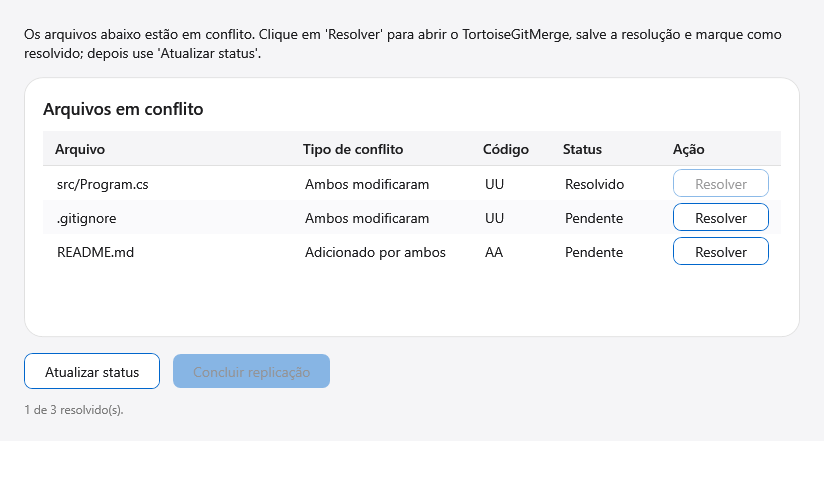
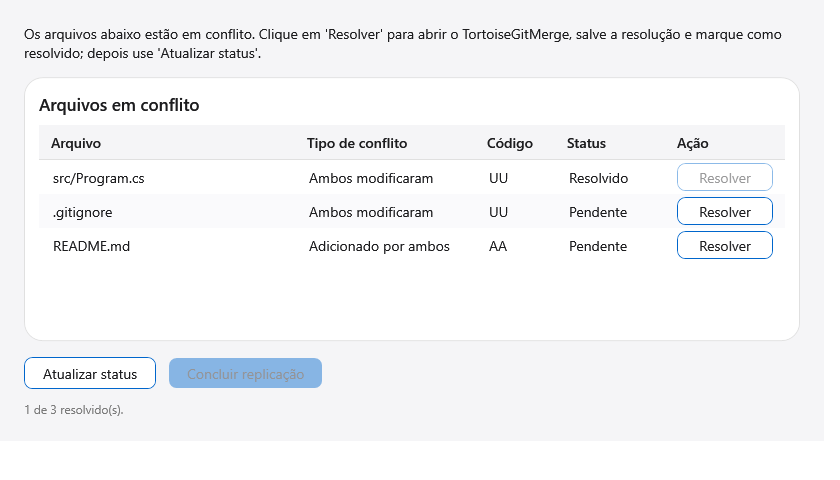
ui: reduzir altura do formulário principal
- Local e Remote concatenados em uma única linha (MultiBinding)
- Remove a opção de estratégia da UI (replicação usa cherry-pick, padrão do VM)
- Margens/paddings enxutos (Grid 16, cards 14, alturas de controle 32)
- Altura padrão da janela 860 -> 700
- Manual/README e screenshots atualizados

diff --git a/src/GitKit.App/Views/MainWindow.xaml b/src/GitKit.App/Views/MainWindow.xaml
@@ -2,7 +2,7 @@
         xmlns="http://schemas.microsoft.com/winfx/2006/xaml/presentation"
         xmlns:x="http://schemas.microsoft.com/winfx/2006/xaml"
         Title="git.kit — Replicação de commits entre branches"
-        Height="860" Width="1000" MinHeight="620" MinWidth="820"
+        Height="700" Width="1000" MinHeight="520" MinWidth="820"
         Background="{StaticResource ParchmentBrush}"
         WindowStartupLocation="CenterScreen">
 
@@ -10,7 +10,7 @@
         <BooleanToVisibilityConverter x:Key="BoolToVis" />
     </Window.Resources>
 
-    <Grid Margin="24">
+    <Grid Margin="16">
         <Grid.RowDefinitions>
             <RowDefinition Height="*" />
             <RowDefinition Height="Auto" />
@@ -20,15 +20,15 @@
 
             <!-- ===================== Aba: Replicação ===================== -->
             <TabItem Header="Replicação">
-                <Grid Margin="0,16,0,0">
+                <Grid Margin="0,10,0,0">
                     <Grid.RowDefinitions>
                         <RowDefinition Height="Auto" />
                         <RowDefinition Height="Auto" />
                         <RowDefinition Height="*" />
                     </Grid.RowDefinitions>
 
-                    <!-- ===== 1. Repositório ===== -->
-                    <GroupBox Grid.Row="0" Header="Repositório" Margin="0,0,0,16">
+                    <!-- ===== Repositório ===== -->
+                    <GroupBox Grid.Row="0" Header="Repositório" Margin="0,0,0,10">
                         <Grid>
                             <Grid.ColumnDefinitions>
                                 <ColumnDefinition Width="Auto" />
@@ -36,7 +36,6 @@
                                 <ColumnDefinition Width="Auto" />
                             </Grid.ColumnDefinitions>
                             <Grid.RowDefinitions>
-                                <RowDefinition Height="Auto" />
                                 <RowDefinition Height="Auto" />
                                 <RowDefinition Height="Auto" />
                             </Grid.RowDefinitions>
@@ -51,16 +50,19 @@
                                     Style="{StaticResource PrimaryButton}" Command="{Binding StartCommand}" />
 
                             <TextBlock Grid.Row="1" Grid.Column="1" Grid.ColumnSpan="2" Style="{StaticResource Typo.Caption}"
-                                       Margin="0,10,0,0" TextTrimming="CharacterEllipsis"
-                                       Text="{Binding RepositoryPath, StringFormat=Local: {0}}" />
-                            <TextBlock Grid.Row="2" Grid.Column="1" Grid.ColumnSpan="2" Style="{StaticResource Typo.Caption}"
-                                       Margin="0,4,0,0" TextTrimming="CharacterEllipsis"
-                                       Text="{Binding RepositoryUrl, StringFormat=Remote: {0}}" />
+                                       Margin="0,8,0,0" TextTrimming="CharacterEllipsis">
+                                <TextBlock.Text>
+                                    <MultiBinding StringFormat="Local: {0}      Remote: {1}">
+                                        <Binding Path="RepositoryPath" />
+                                        <Binding Path="RepositoryUrl" />
+                                    </MultiBinding>
+                                </TextBlock.Text>
+                            </TextBlock>
                         </Grid>
                     </GroupBox>
 
-                    <!-- ===== 2. Branches ===== -->
-                    <GroupBox Grid.Row="1" Header="Branches e estratégia" Margin="0,0,0,16"
+                    <!-- ===== Branches ===== -->
+                    <GroupBox Grid.Row="1" Header="Branches" Margin="0,0,0,10"
                               IsEnabled="{Binding IsRepositoryReady}">
                         <Grid>
                             <Grid.ColumnDefinitions>
@@ -68,12 +70,8 @@
                                 <ColumnDefinition Width="*" />
                                 <ColumnDefinition Width="Auto" />
                             </Grid.ColumnDefinitions>
-                            <Grid.RowDefinitions>
-                                <RowDefinition Height="Auto" />
-                                <RowDefinition Height="Auto" />
-                            </Grid.RowDefinitions>
 
-                            <StackPanel Grid.Row="0" Grid.Column="0" Margin="0,0,12,0">
+                            <StackPanel Grid.Column="0" Margin="0,0,12,0">
                                 <Label Content="Branch de origem" />
                                 <ComboBox ItemsSource="{Binding SourceBranchesView}" SelectedItem="{Binding SelectedSourceBranch}"
                                           IsEditable="True" IsTextSearchEnabled="False" StaysOpenOnEdit="True"
@@ -82,7 +80,7 @@
                                           Text="{Binding BranchFilter, UpdateSourceTrigger=PropertyChanged}" />
                             </StackPanel>
 
-                            <StackPanel Grid.Row="0" Grid.Column="1" Margin="0,0,12,0">
+                            <StackPanel Grid.Column="1" Margin="0,0,12,0">
                                 <Label Content="Branch de destino (existente ou novo)" />
                                 <ComboBox ItemsSource="{Binding DestinationBranchesView}" IsEditable="True"
                                           IsTextSearchEnabled="False" StaysOpenOnEdit="True"
@@ -91,17 +89,12 @@
                                           Text="{Binding DestinationBranch, UpdateSourceTrigger=PropertyChanged}" />
                             </StackPanel>
 
-                            <Button Grid.Row="0" Grid.Column="2" Content="Atualizar" VerticalAlignment="Bottom"
+                            <Button Grid.Column="2" Content="Atualizar" VerticalAlignment="Bottom"
                                     Command="{Binding RefreshBranchesCommand}" />
-
-                            <StackPanel Grid.Row="1" Grid.Column="0" Grid.ColumnSpan="2" Orientation="Horizontal" Margin="0,16,0,0">
-                                <Label Content="Estratégia" VerticalAlignment="Center" Margin="0,0,12,0" />
-                                <ComboBox Width="340" ItemsSource="{Binding Modes}" SelectedItem="{Binding SelectedMode}" />
-                            </StackPanel>
                         </Grid>
                     </GroupBox>
 
-                    <!-- ===== 3. Lista de commits ===== -->
+                    <!-- ===== Lista de commits ===== -->
                     <GroupBox Grid.Row="2" Header="Commit a replicar" Margin="0,0,0,0"
                               IsEnabled="{Binding IsRepositoryReady}">
                         <Grid>
@@ -111,7 +104,7 @@
                                 <RowDefinition Height="Auto" />
                             </Grid.RowDefinitions>
 
-                            <TextBox Grid.Row="0" Margin="0,0,0,12"
+                            <TextBox Grid.Row="0" Margin="0,0,0,10"
                                      ToolTip="Filtrar commits por hash, autor ou mensagem"
                                      Text="{Binding CommitFilter, UpdateSourceTrigger=PropertyChanged}" />
 
@@ -124,13 +117,13 @@
                                 </DataGrid.Columns>
                             </DataGrid>
 
-                            <StackPanel Grid.Row="2" Orientation="Horizontal" Margin="0,16,0,0">
+                            <StackPanel Grid.Row="2" Orientation="Horizontal" Margin="0,10,0,0">
                                 <Button Content="Replicar commit" MinWidth="150"
                                         Style="{StaticResource PrimaryButton}" Command="{Binding ReplicateCommand}" />
-                                <Button Content="Resolver conflitos..." Margin="12,0,0,0"
+                                <Button Content="Resolver conflitos..." Margin="10,0,0,0"
                                         Command="{Binding ResolveConflictsCommand}"
                                         Visibility="{Binding PendingManualResolution, Converter={StaticResource BoolToVis}}" />
-                                <Button Content="Enviar branch (push)" Margin="12,0,0,0"
+                                <Button Content="Enviar branch (push)" Margin="10,0,0,0"
                                         Style="{StaticResource PrimaryButton}" Command="{Binding PushCommand}"
                                         Visibility="{Binding CanShowPush, Converter={StaticResource BoolToVis}}" />
                             </StackPanel>
@@ -141,14 +134,14 @@
 
             <!-- ===================== Aba: Log ===================== -->
             <TabItem Header="Log">
-                <TextBox Margin="0,16,0,0" Style="{StaticResource CodeTextBox}"
+                <TextBox Margin="0,10,0,0" Style="{StaticResource CodeTextBox}"
                          Text="{Binding Log, Mode=OneWay}" TextWrapping="NoWrap" />
             </TabItem>
 
         </TabControl>
 
         <!-- ===== Barra de status ===== -->
-        <StatusBar Grid.Row="1" Margin="0,12,0,0">
+        <StatusBar Grid.Row="1" Margin="0,8,0,0">
             <StatusBarItem>
                 <ProgressBar Width="120" Height="4" IsIndeterminate="True"
                              Visibility="{Binding IsBusy, Converter={StaticResource BoolToVis}}" />

diff --git a/src/GitKit.App/Styles/DesignSystem.xaml b/src/GitKit.App/Styles/DesignSystem.xaml
@@ -83,9 +83,9 @@
     <Style x:Key="PillButtonBase" TargetType="Button">
         <Setter Property="FontFamily" Value="{StaticResource AppFontFamily}" />
         <Setter Property="FontSize" Value="14" />
-        <Setter Property="Height" Value="36" />
+        <Setter Property="Height" Value="32" />
         <Setter Property="MinWidth" Value="88" />
-        <Setter Property="Padding" Value="20,0" />
+        <Setter Property="Padding" Value="18,0" />
         <Setter Property="Cursor" Value="Hand" />
         <Setter Property="HorizontalContentAlignment" Value="Center" />
         <Setter Property="VerticalContentAlignment" Value="Center" />
@@ -161,7 +161,7 @@
         <Setter Property="BorderBrush" Value="{StaticResource HairlineBrush}" />
         <Setter Property="BorderThickness" Value="1" />
         <Setter Property="CaretBrush" Value="{StaticResource InkBrush}" />
-        <Setter Property="Padding" Value="10,7" />
+        <Setter Property="Padding" Value="10,6" />
         <Setter Property="Template">
             <Setter.Value>
                 <ControlTemplate TargetType="TextBox">
@@ -263,7 +263,7 @@
         <Setter Property="Foreground" Value="{StaticResource InkBrush}" />
         <Setter Property="Background" Value="{StaticResource CanvasBrush}" />
         <Setter Property="BorderBrush" Value="{StaticResource HairlineBrush}" />
-        <Setter Property="Height" Value="36" />
+        <Setter Property="Height" Value="32" />
         <Setter Property="SnapsToDevicePixels" Value="True" />
         <Setter Property="Template">
             <Setter.Value>
@@ -323,9 +323,9 @@
                 <ControlTemplate TargetType="GroupBox">
                     <Border Background="{TemplateBinding Background}"
                             BorderBrush="{TemplateBinding BorderBrush}" BorderThickness="1"
-                            CornerRadius="{StaticResource RadiusLg}" Padding="18">
+                            CornerRadius="{StaticResource RadiusLg}" Padding="14">
                         <DockPanel>
-                            <TextBlock DockPanel.Dock="Top" Margin="0,0,0,12"
+                            <TextBlock DockPanel.Dock="Top" Margin="0,0,0,10"
                                        Style="{StaticResource Typo.Tagline}"
                                        Text="{TemplateBinding Header}" />
                             <ContentPresenter />

diff --git a/docs/manual-do-usuario.html b/docs/manual-do-usuario.html
@@ -192,8 +192,9 @@ commits para localizar rapidamente o que precisa (por nome, hash, autor ou mensa
       (campo editável). Veja a seção 6 sobre criação automática.</li>
 </ul>
 
-<h3><span class="step">3</span> Escolher a estratégia</h3>
-<p>Selecione <b>Cherry-pick</b> ou <b>Integração de diff</b> (ver seção 5).</p>
+<h3><span class="step">3</span> Estratégia de replicação</h3>
+<p>No momento a replicação é feita sempre por <b>cherry-pick</b> (a seleção de estratégia
+está temporariamente indisponível; ver seção 5 para o conceito).</p>
 
 <h3><span class="step">4</span> Selecionar o commit e replicar</h3>
 <p>Na lista, clique no commit desejado e então em <b>Replicar commit</b>. O resultado pode ser:</p>

diff --git a/src/GitKit.App/Screenshots/ScreenshotGenerator.cs b/src/GitKit.App/Screenshots/ScreenshotGenerator.cs
@@ -59,7 +59,7 @@ public static class ScreenshotGenerator
         Pump();
 
         var mainWindow = new MainWindow { DataContext = main };
-        Capture(mainWindow, Path.Combine(outputDirectory, "tela-principal.png"), 1000, 860);
+        Capture(mainWindow, Path.Combine(outputDirectory, "tela-principal.png"), 1000, 700);
 
         // ---- 2. Formulário de conflitos ----
         var conflicts = new[]

diff --git a/README.md b/README.md
@@ -126,7 +126,8 @@ regenerá-lo após editar o HTML, imprima-o para PDF (ex.: com o Edge headless):
 2. Selecione o **branch de origem** (os commits são carregados automaticamente). No
    **branch de destino**, escolha um existente ou **digite um nome novo** — branches
    inexistentes são criados a partir de develop (sufixo `dev`) ou master.
-3. Escolha a **estratégia** (cherry-pick ou integração de diff).
+3. A replicação usa **cherry-pick** (a escolha de estratégia está temporariamente
+   indisponível na interface).
 4. Selecione o commit na lista e clique em **Replicar commit**.
 5. Se houver conflito, o **formulário de conflitos** abre automaticamente: clique em
    **Resolver** em cada arquivo (abre o TortoiseGitMerge), marque como resolvido, use